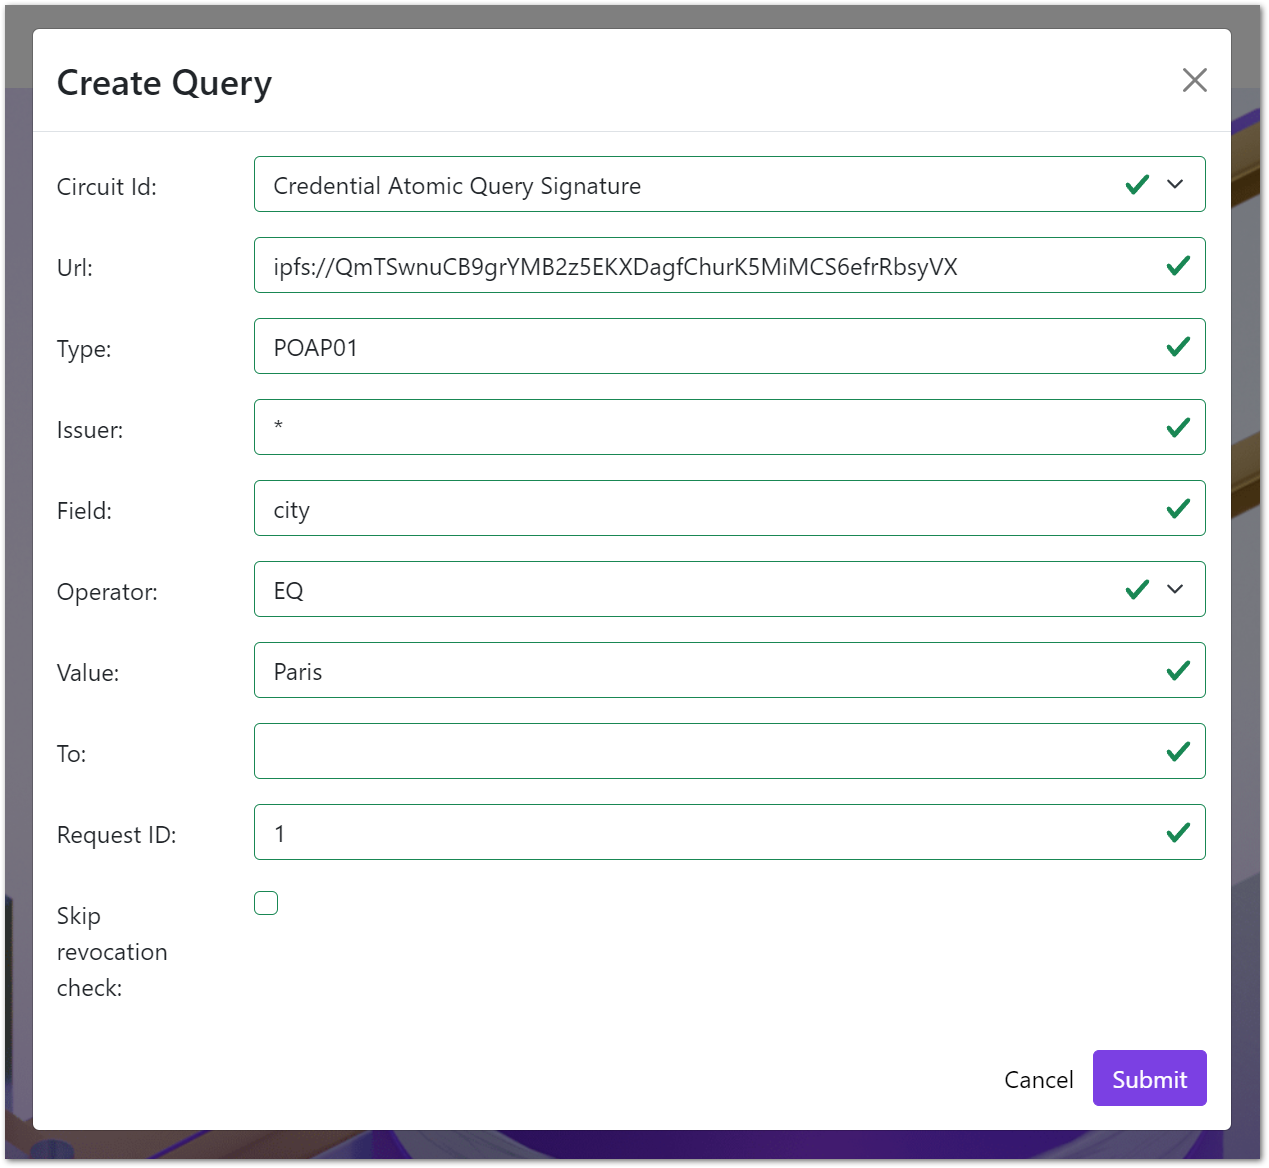
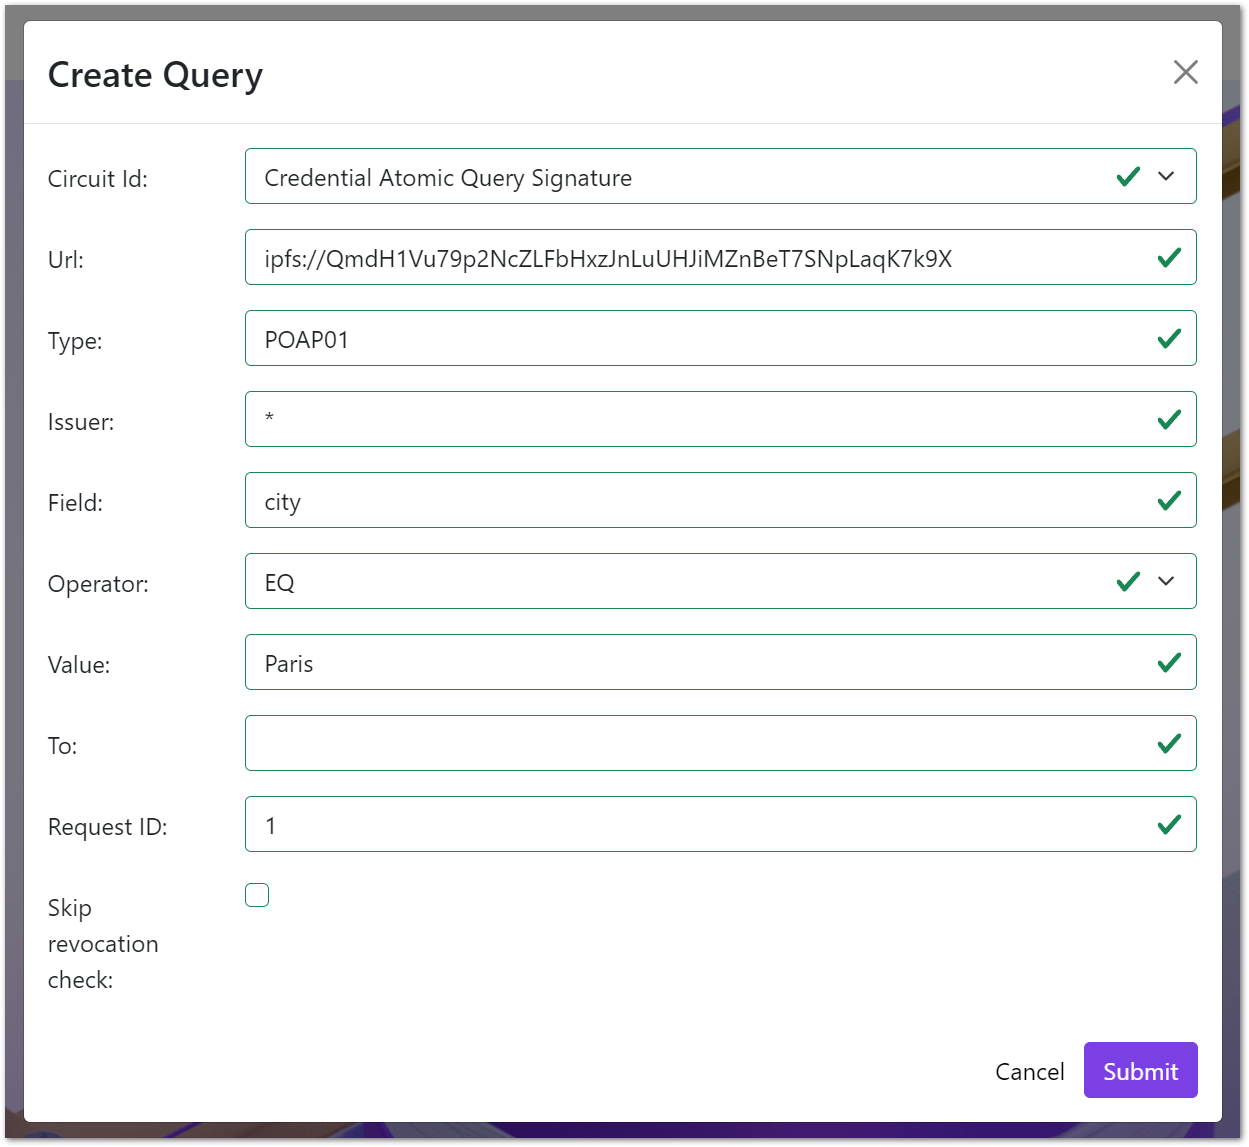
minor changes

diff --git a/mkdocs/docs/quick-start-demo.md b/mkdocs/docs/quick-start-demo.md
@@ -9,7 +9,6 @@ These are the steps we will cover in this article:
 2. [Issue a new credential to attest to the ID Holder's attendance to the event](#issue-a-new-credential-to-attest-to-the-id-holders-age)
 3. [Fetch the newly created credential](#fetch-the-newly-created-credential)
 4. [Verify the credential validity](#verify-the-credential-validity)
-5. [Query the ID holder for specific information of his credential](#query-the-id-holder-for-specific-information-of-his-credential)
 
 ## Set up a Polygon ID wallet
 As an Identity Holder, the individual who wants to have a credential to prove his age, for example, will need an application that can hold their credentials. In our case, we will be using the Polygon ID Wallet. 
@@ -38,9 +37,9 @@ The process from downloading to creating an identity on the Polygon ID Wallet is
 ## Issue a new credential to attest to the ID Holder's event attendance
 A trusted entity, for instance, a private institution will now play the role of an issuer. It will be responsible for creating the credential and sending it to the ID Holder.
 
-We are using a testing environment to manage credentials: [https://issuer-ui.polygonid.me](https://issuer-ui.polygonid.me). This is the place where the trusted entity can create credentials, schemas and generate connections. 
+We are using a testing environment to manage credentials: [https://issuer-ui.polygonid.me](https://issuer-ui.polygonid.me). This is the place where the trusted entity can create credentials, manage schemas and generate connections. 
 
-However, before you actually issue a credential using the Issuer node, you need to create a schema for that credential, which basically is the set of JSON files that gather all the attributes of that specific credential. 
+However, if you are using a new credential type, you actually need to create a schema for that credential, which basically is the set of JSON files that gather all the attributes of that specific credential. 
 
 To facilitate this issuance process, we have already created the credential schema whose URLs are the following:
 
@@ -76,13 +75,13 @@ With the new schema in hand, the issuer should now be able to generate a credent
 
     You may preview the schema and then Import it.
 
-3. Access [https://issuer-ui.polygonid.me/credentials/issued](https://issuer-ui.polygonid.me/credentials/issued) and click on **Issue Credential**. Choose **Credential Link** on the next page and your schema on the dropdown menu ("POAP01", in our case). For this credential, we are providing a proof of attendance to an event in Paris:
+3. You can go ahead and click on **Issue Credential** in the top righ-hand corner. Choose **Credential Link** on the next page and your schema on the dropdown menu ("POAP01", in our case). For this credential, we are providing a proof of attendance to an event in Paris:
 
     <div align="center">
         <img width="500" src="../imgs/quick-start-demo/create-credential.png"></img>
     </div>
 
-4. You can click on **View Link** on the next screen to check the generated QR code.
+4. After you click on **Create Credential Link**, you can also click on **View Link** on the next screen to check the generated QR code.
 
     <div align="center">
         <img width="500" src="../imgs/quick-start-demo/qr-code.png"></img>
@@ -130,7 +129,7 @@ Here are the steps to verify the credential:
         <img width="600" src="../imgs/quick-start-demo/verifier-lp.png"></img>
     </div>
 
-2. Now you will again make use of the JSON Schema URL `ipfs://QmTSwnuCB9grYMB2z5EKXDagfChurK5MiMCS6efrRbsyVX`. Here is how the query should look like:
+2. Now you will again make use of the JSON-LD URL we have also provided: `ipfs://QmdH1Vu79p2NcZLFbHxzJnLuUHJiMZnBeT7SNpLaqK7k9X`. Here is how the query should look like:
 
     <div align="center">
         <img width="600" src="../imgs/quick-start-demo/verifier-query.png"></img>
